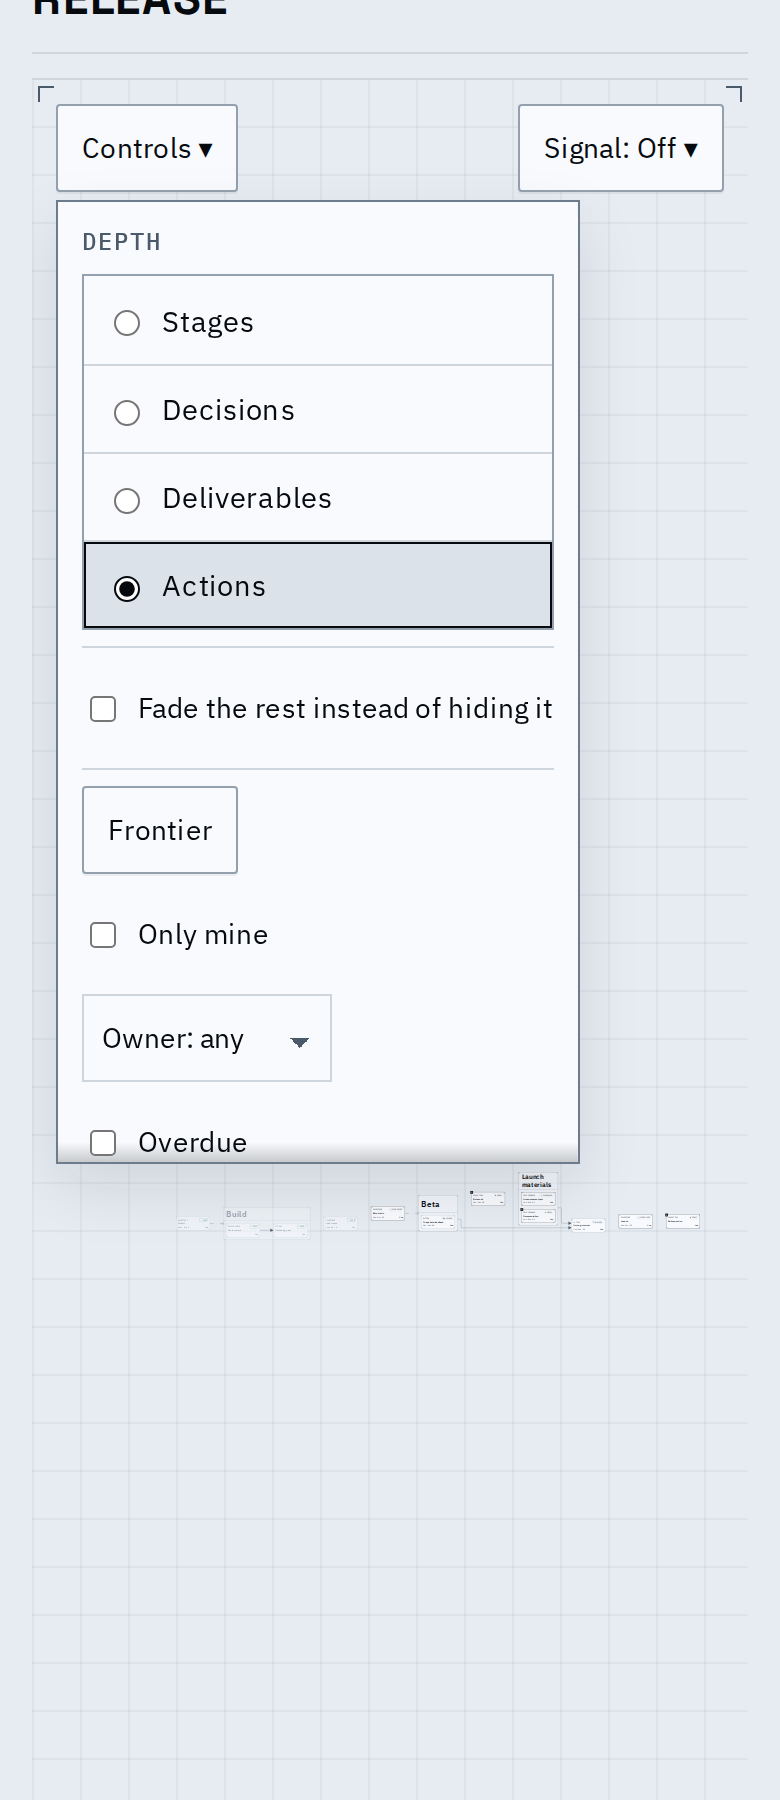
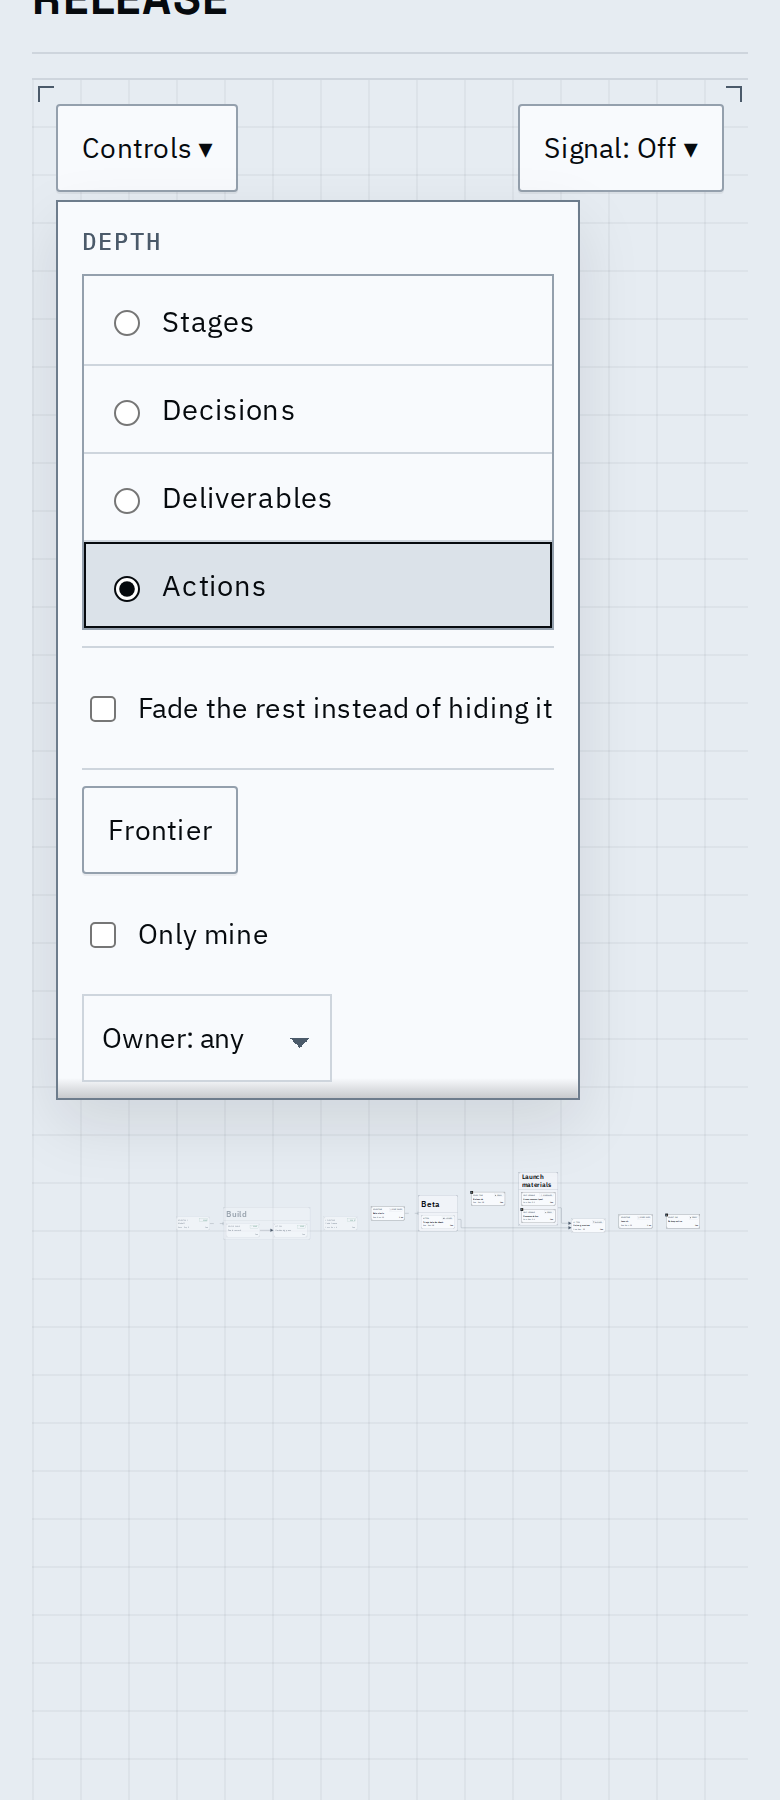
Keep a menu's heading with its first option
A scrolling popover body is cut above a heading that would end its
visible area with no option under it, instead of a heading that is
hidden from sighted people. The phone Controls menu's Flags heading is
visible again. The spec checks that a scrolling menu shows its cut edge
and that no heading ends the visible area without an option.

Changed region(s): [[0.0615, 0.5911, 0.7385, 0.6533]]

diff --git a/web/app/src/screens/Menu.tsx b/web/app/src/screens/Menu.tsx
@@ -54,7 +54,28 @@ function useInWindow(popover: RefObject<HTMLDivElement | null>, body: RefObject<
     popover.current.dataset["side"] = at.side;
     // DESIGN, Popover and menu: the body scrolls within the room; the stylesheet's cap (--popover-body-max) holds it to that room or less.
     body.current?.style.setProperty("--popover-room", `${String(Math.max(at.room, 0))}px`);
+    if (body.current !== null) {
+      cutBeforeHeading(body.current);
+    }
   }, [popover, body, align, open]);
+}
+
+/** The room a heading needs under it to be worth showing: one option, a touch target tall. */
+const HEADING_ROOM_PX = 44;
+
+/** A body that scrolls is cut above a heading that would be its last visible row without an option under it, so a section is never shown by its name alone. */
+function cutBeforeHeading(body: HTMLElement): void {
+  if (body.scrollHeight <= body.clientHeight) {
+    return;
+  }
+  const box = body.getBoundingClientRect();
+  for (const heading of body.querySelectorAll<HTMLElement>(".label, legend")) {
+    const at = heading.getBoundingClientRect();
+    if (at.top > box.top + HEADING_ROOM_PX && at.top < box.bottom && at.bottom + HEADING_ROOM_PX > box.bottom) {
+      body.style.setProperty("--popover-room", `${String(Math.floor(at.top - box.top))}px`);
+      return;
+    }
+  }
 }
 
 /** The items of a menu of actions that can take the focus (a disabled button cannot), in the order drawn. */

diff --git a/web/app/e2e/touch-targets.spec.ts b/web/app/e2e/touch-targets.spec.ts
@@ -16,15 +16,19 @@ async function expectNoOrphanHeading(menu: Locator): Promise<void> {
       const edge = body.getBoundingClientRect().bottom;
       return [...panel.querySelectorAll<HTMLElement>(".label, legend")].flatMap((heading) => {
         const top = heading.getBoundingClientRect().top;
-        if (heading.getBoundingClientRect().width <= 1) {
-          return [];
-        }
         const next = [...panel.querySelectorAll<HTMLElement>("input, button, select")].find((control) => control.getBoundingClientRect().top >= heading.getBoundingClientRect().bottom - 1);
         return top < edge && next !== undefined && next.getBoundingClientRect().top + 22 > edge ? [heading.textContent] : [];
       });
     }),
   );
   expect(orphans, "headings whose options are out of view").toEqual([]);
+  // A body that scrolls shows it at its cut edge.
+  const cue = await whenSettled(menu.page(), () => menu.evaluate((panel) => {
+    const body = panel.closest(".popover-body");
+    const style = body === null ? undefined : getComputedStyle(body);
+    return { scrolls: body !== null && body.scrollHeight > body.clientHeight, shadow: style?.backgroundImage.includes("gradient") === true && style.backgroundAttachment.includes("scroll") };
+  }));
+  expect(cue.scrolls ? cue.shadow : true, "a scrolling menu shows its cut edge").toBe(true);
 }
 
 test.use({ viewport: { width: 390, height: 844 }, hasTouch: true });

diff --git a/web/app/src/screens/screens.css b/web/app/src/screens/screens.css
@@ -498,12 +498,6 @@ button.route-list-title {
   margin: 0;
 }
 
-/* The flags' heading is for a screen reader: the checks under the owner are plain without it, and a menu that scrolls never ends on a heading. */
 [data-testid="controls-panel-phone"] legend {
-  position: absolute;
-  width: 1px;
-  height: 1px;
-  overflow: hidden;
-  clip-path: inset(50%);
-  white-space: nowrap;
+  padding: 0;
 }
